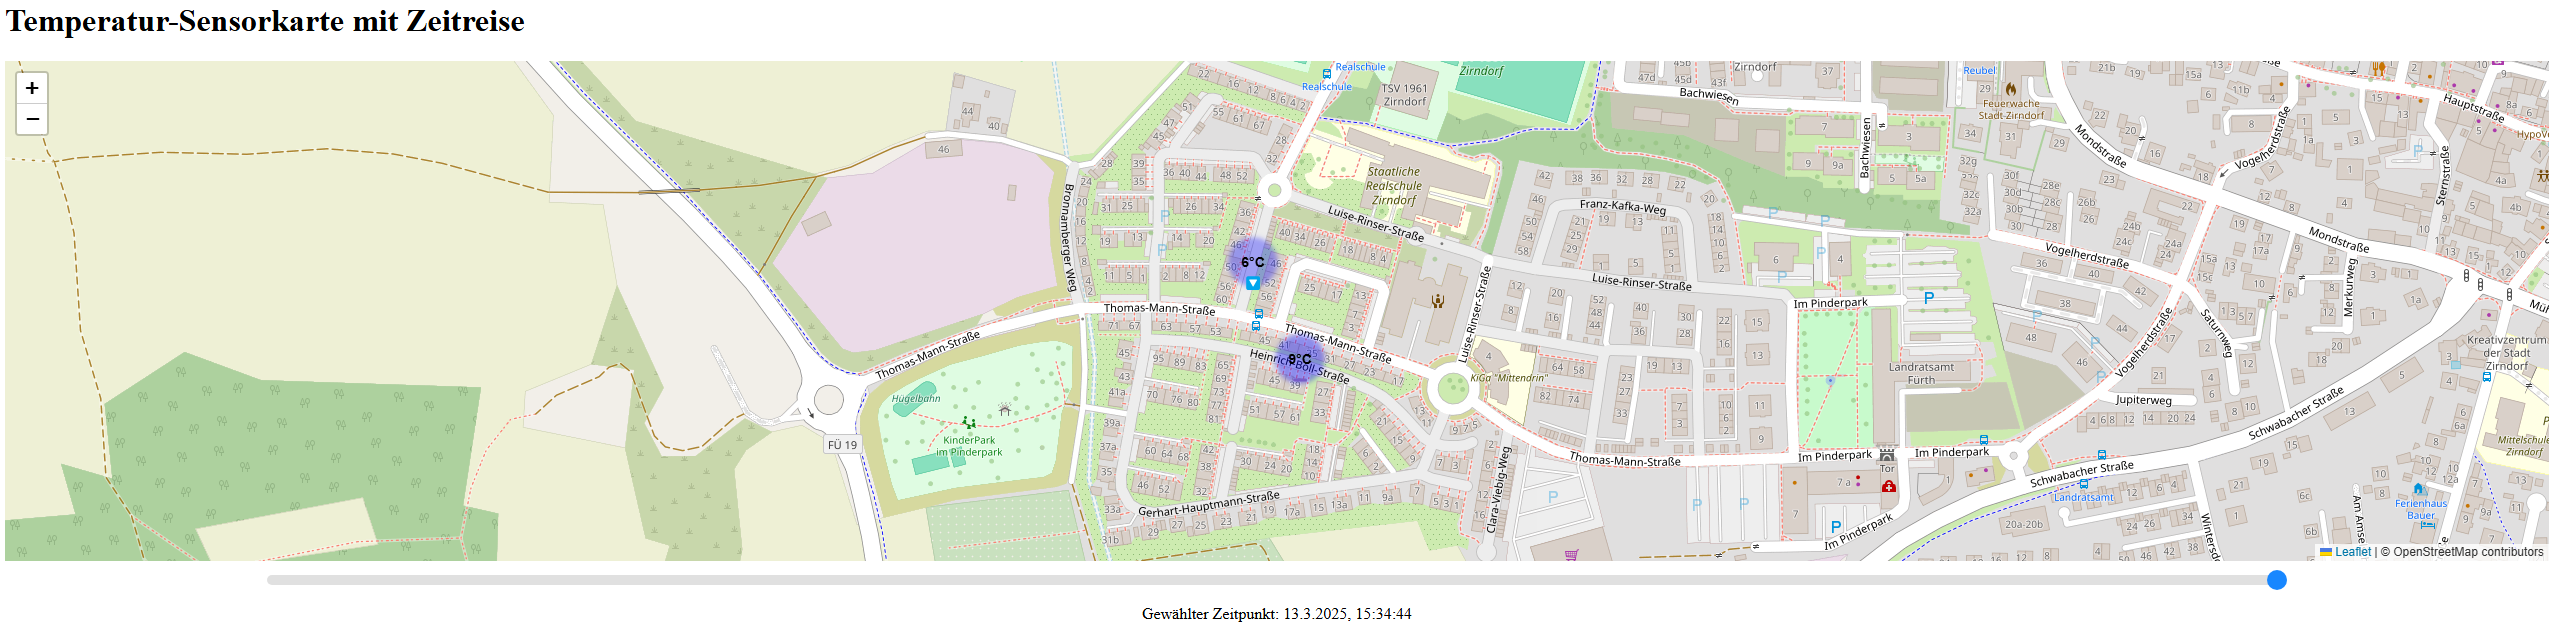
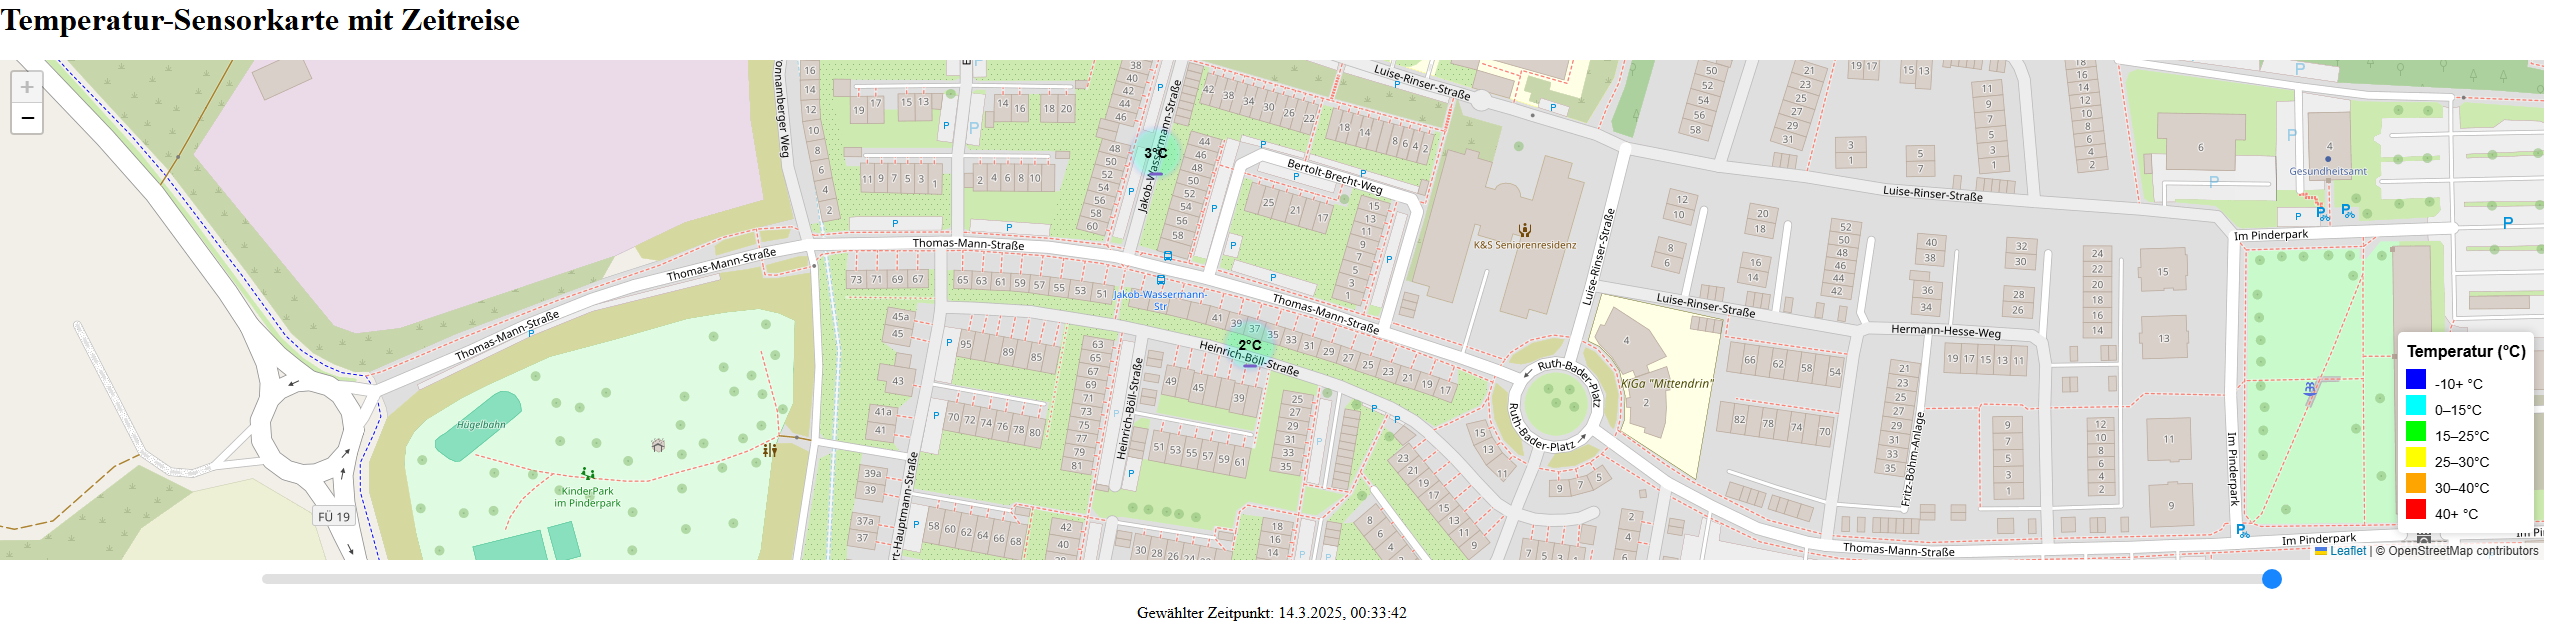
add feature to README.MD and update the Example screenshot

diff --git a/README.md b/README.md
@@ -5,7 +5,8 @@
 This project visualizes temperature sensor data on an interactive map using the Leaflet library. The map displays clustered markers and heatmaps to represent temperature readings from various sensors. Users can explore temperature changes over the past 24 hours using a time slider, which updates the map in 10-minute intervals.
 
 ### Example:
-![alt text](example.png)
+![Example](example.png)
+
 
 ### Features
 
@@ -13,6 +14,8 @@ This project visualizes temperature sensor data on an interactive map using the 
 - **Time Slider**: Allows users to view temperature data at different times over the past 24 hours.
 - **Real-time Updates**: The map and data are updated every 30 seconds to provide the latest temperature readings.
 - **Temperature Trends**: Shows whether the temperature has increased, decreased, or remained the same with trend arrows.
+- **Tooltip**: Show Temperature, Sensor ID and Timestamp in a Tooltip
+- **Autozoom**: Zoom in to the lowest level with all available Sensors
 
 ### Technologies Used
 
